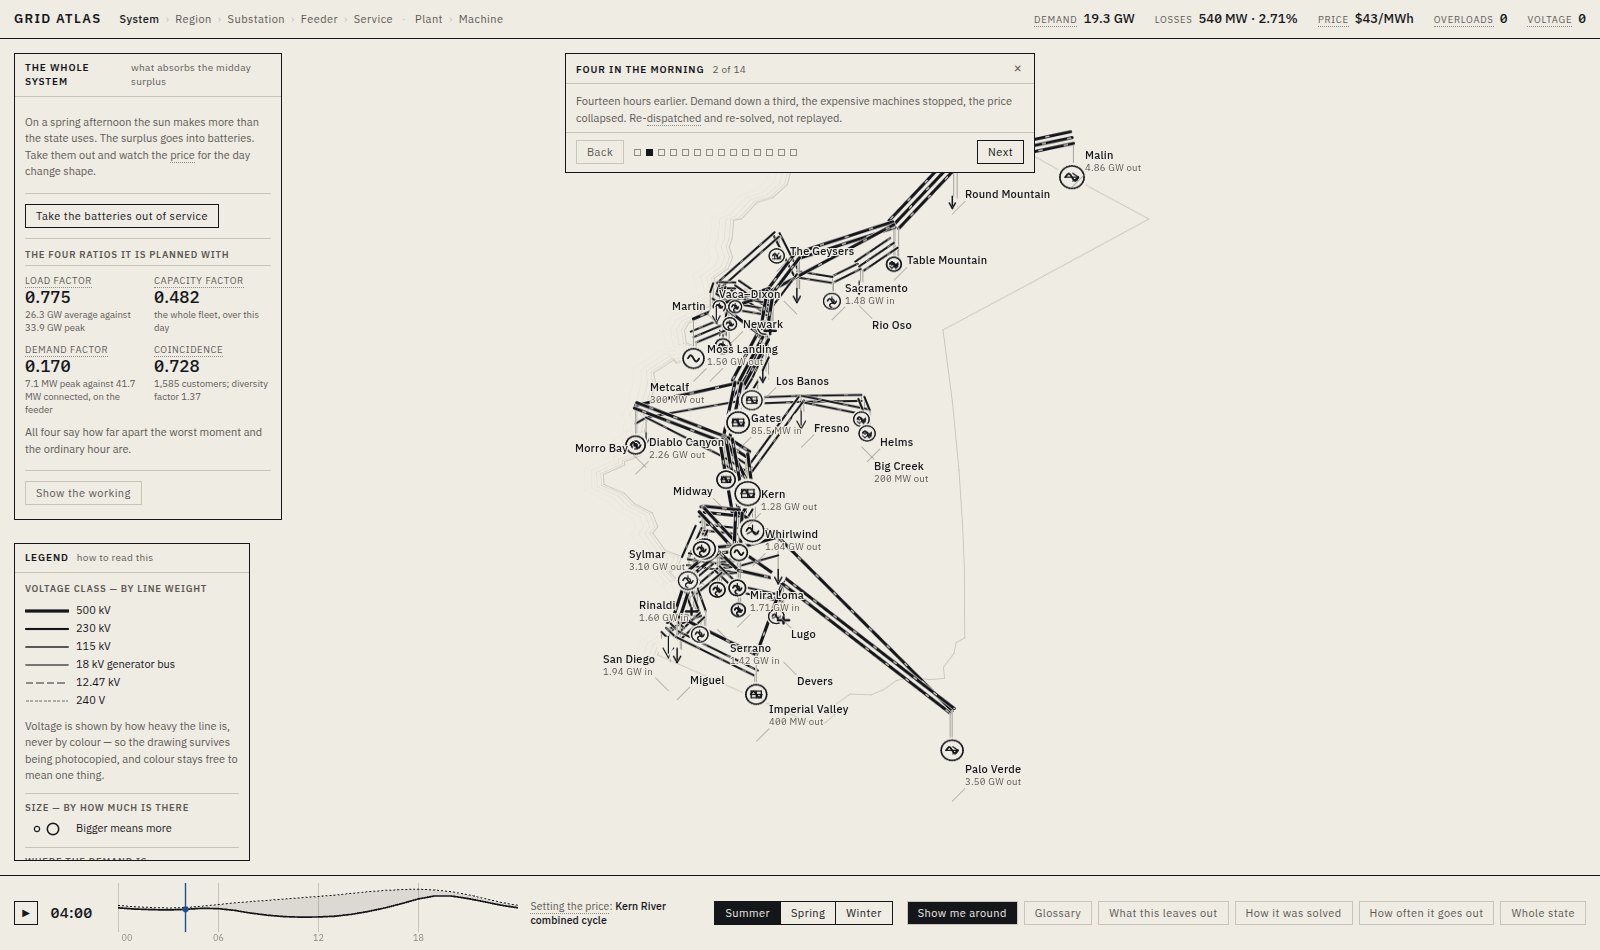
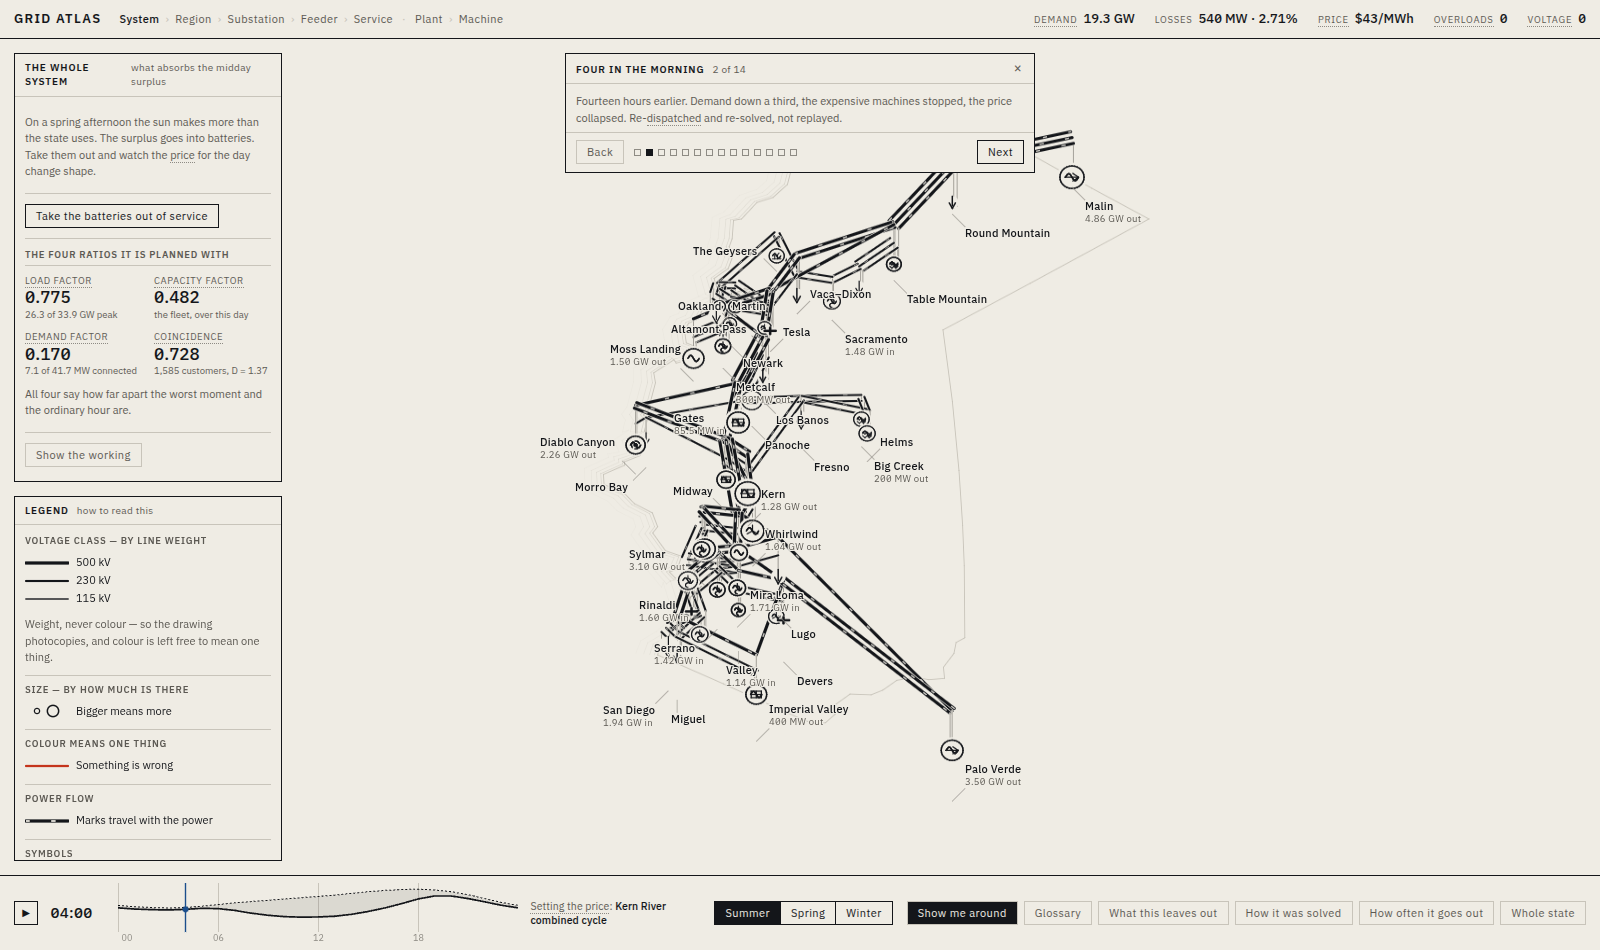
Keep what you picked out from under the panel explaining it
Selecting a 500 kV circuit and opening the working put a four-hundred
pixel panel and a six-hundred pixel one over the map, and the circuit
both of them were about was behind them. Nothing was broken, and the
effect was worse than if something had been: the reader is reading a
derivation of a flow on a line they can no longer see, which is most of
the reason to have drawn it.

The camera now pans by the smallest amount that brings the subject back
into the paper still showing — never zooms, because the scale is the
reader's, and never moves at all if the subject is already clear. It
runs when a panel opens and when the selection changes.

The covered strip is measured from the leftmost edge any right-hand
panel reaches rather than from the widest of them. They normally share
an edge and the two numbers agree, but opening the working moves the
inspector left to sit beside the math panel, and the widest single
panel then understates the strip by the width of the other one — which
is why the first version of this pan decided the circuit was already
visible when it was underneath the inspector.

Claude-Session: https://claude.ai/code/session_013L3ycJKAhRgYUj1wvadxW8

diff --git a/src/app/main.ts b/src/app/main.ts
@@ -12,7 +12,7 @@
  */
 
 import './styles.css';
-import { Vector3 } from 'three';
+import { Vector2, Vector3 } from 'three';
 import { AppState, AppSnapshot } from './state.js';
 import { Viewport, FrameContent } from './viewport.js';
 import { Legend } from './legend.js';
@@ -148,6 +148,50 @@ function openMath(kind: Parameters<typeof derivationsFor>[0], id: string): void 
   mathTarget = { kind, id };
   stage.classList.add('has-math');
   math.show(derivations);
+  keepSelectionVisible();
+}
+
+/**
+ * Keep what the reader picked out from under the panel that explains it.
+ *
+ * Opening the working on a 500 kV circuit put a four-hundred-pixel panel and a
+ * six-hundred-pixel panel over the map, and the circuit both of them were about
+ * was behind them. Nothing was broken and the effect was worse than if
+ * something had been: the reader is reading a derivation of a flow on a line
+ * they can no longer see, which is most of the reason to have drawn it.
+ *
+ * The camera pans by the smallest amount that brings the subject back into the
+ * paper that is still showing — never zooms, because the scale is the reader's,
+ * and never moves at all if the subject is already clear.
+ */
+function keepSelectionVisible(): void {
+  const sel = state.current.selection;
+  if (!sel.id || !lastFrame) return;
+  const target = lastFrame.picks.find((p) => p.id === sel.id);
+  if (!target) return;
+
+  const at = viewport.camera.worldToScreen(
+    target.worldB ? target.world.clone().lerp(target.worldB, 0.5) : target.world,
+    new Vector2());
+  const { width, height } = viewport.camera.viewport;
+  const margin = 40;
+  const free = {
+    x0: 300 + margin,
+    x1: width - rightPanelInsetPx() - margin,
+    y0: 52 + margin,
+    y1: height - profileInsetPx() - margin,
+  };
+  if (free.x1 <= free.x0 || free.y1 <= free.y0) return;
+
+  const dx = at.x < free.x0 ? free.x0 - at.x : at.x > free.x1 ? free.x1 - at.x : 0;
+  const dy = at.y < free.y0 ? free.y0 - at.y : at.y > free.y1 ? free.y1 - at.y : 0;
+  if (dx === 0 && dy === 0) return;
+
+  const b = viewport.camera.groundBasis();
+  viewport.flyTo(
+    viewport.camera.target.clone().add(new Vector3(
+      b.rightX * -dx + b.downX * -dy, 0, b.rightZ * -dx + b.downZ * -dy)),
+    viewport.camera.metresPerPixel, 420);
 }
 
 /**
@@ -399,20 +443,24 @@ function refreshForScene(): void {
 /**
  * How much of the right-hand side is covered by a panel, in pixels.
  *
- * The panels are all anchored to the same edge and overlap each other, so the
- * inset is the widest one that is actually on screen, not their sum.
+ * Measured from the LEFTMOST edge any of them reaches, not from the widest of
+ * them. Most of the time they are anchored to the same edge and overlap, and
+ * the two are the same number — but opening the working moves the inspector
+ * left to sit beside the math panel, and then the widest single panel
+ * understates the covered strip by the width of the other one.
  */
 function rightPanelInsetPx(without: string[] = []): number {
-  let widest = 0;
+  const width = viewport.camera.viewport.width;
+  let leftmost = width;
   for (const el of document.querySelectorAll<HTMLElement>(
     '.panel--inspect, .panel--tcc, .panel--solver, .panel--reliability, ' +
     '.panel--machine, .panel--math'
   )) {
     if (el.style.display === 'none' || el.offsetParent === null) continue;
     if (without.some((c) => el.classList.contains(c))) continue;
-    widest = Math.max(widest, el.getBoundingClientRect().width);
+    leftmost = Math.min(leftmost, el.getBoundingClientRect().left);
   }
-  return widest > 0 ? widest + 18 : 0;
+  return leftmost < width ? width - leftmost + 18 : 0;
 }
 
 /** How much of the bottom of the stage the profile plot is covering. */
@@ -450,10 +498,18 @@ function insetsOnArrival(id: LevelId): { bottom: number; right: number } {
 
 // --- state plumbing -------------------------------------------------------
 
+let lastSelectionId: string | null = null;
+
 state.subscribe((snap) => {
   geometry = buildSystemGeometry(snap.solved);
   renderStats();
   inspector.render(snap, geometry);
+  // A new selection opens the inspector over the right-hand side of the map,
+  // which is where the reader may well have just clicked.
+  if (snap.selection.id !== lastSelectionId) {
+    lastSelectionId = snap.selection.id;
+    if (snap.selection.id) requestAnimationFrame(() => keepSelectionVisible());
+  }
   profile.render(snap.solved, snap.selection.id, snap.motor?.before ?? null);
   if (machinePanel.isOpen) machinePanel.render(snap.solved, lastFrame?.machine);
   if (solver.isOpen) solver.render(snap.solved);
